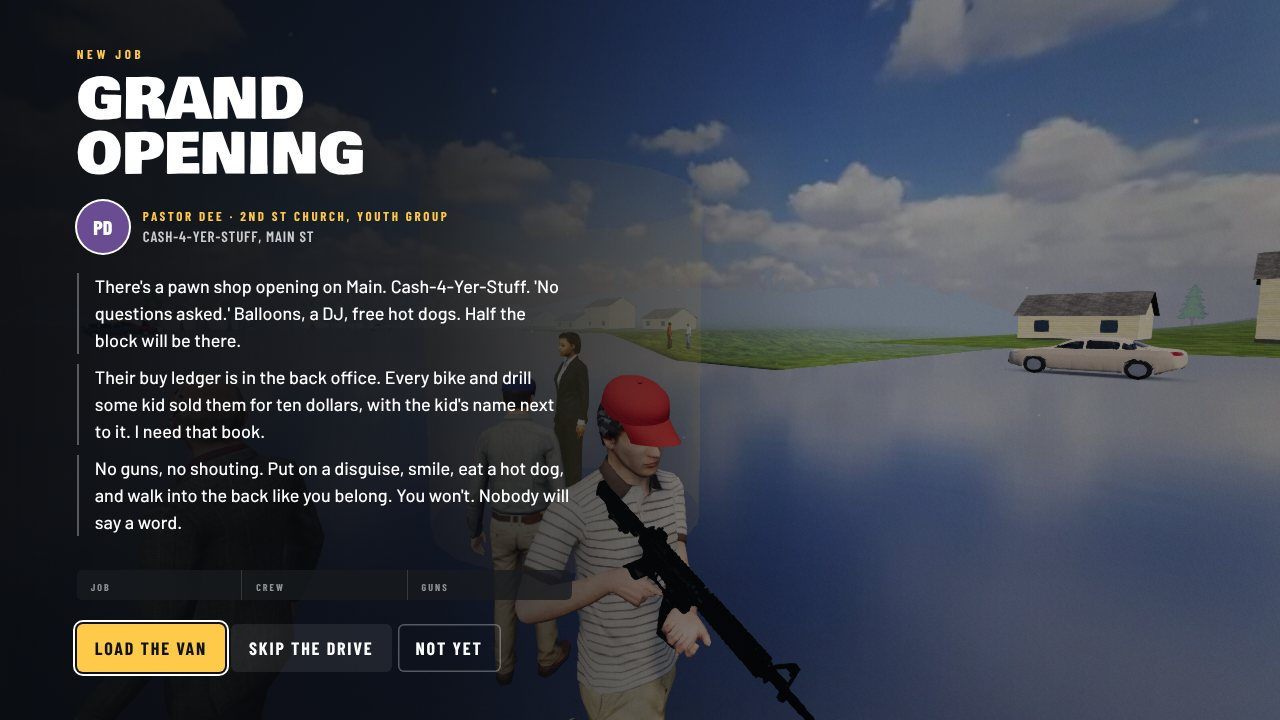
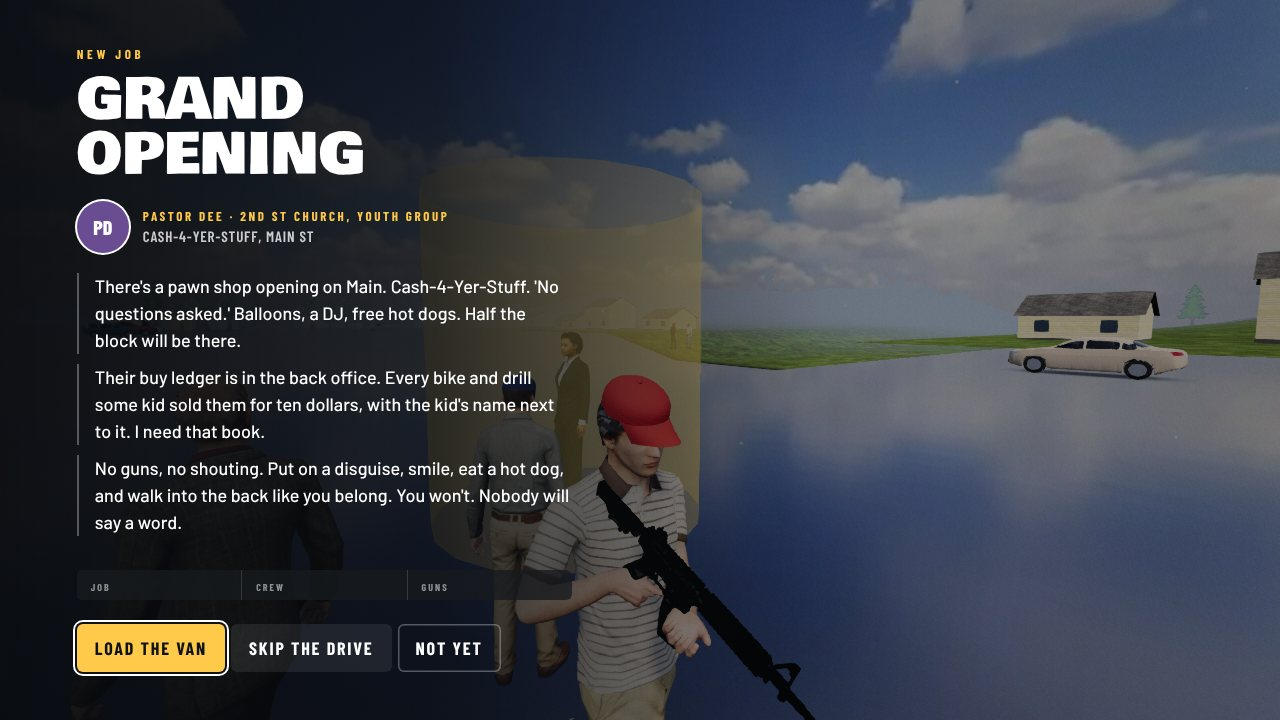
Grand Opening: damped 'excuse me' pile-ups, DJ talk range, human test routes

Changed region(s): [[0.5, 0.55, 0.5625, 0.7333], [0.4375, 0.4583, 0.5625, 0.55], [0.4375, 0.6111, 0.4688, 0.6722]]

diff --git a/dev/jobs/pawn.js b/dev/jobs/pawn.js
@@ -44,8 +44,8 @@ let fails=0;const ok=(c,m)=>{if(!c)fails++;console.log((c?'ok   ':'FAIL ')+m)};
     const k=s.sub;if(k&&log[log.length-1]!==k)log.push(k);return s};
   const face=(x,z)=>ev(([x,z])=>{const P=window.__ht.P;P.yaw=Math.atan2(-(x-P.pos.x),-(z-P.pos.z));P.pitch=-.12},[x,z]);
   const dist=(x,z)=>ev(([x,z])=>{const P=window.__ht.P;return Math.hypot(P.pos.x-x,P.pos.z-z)},[x,z]);
-  async function walk(pts,o){o=o||{};for(const q of pts){let stuck=0,last=1e9;await face(q.x,q.z);await p.keyboard.down('w');if(o.run)await p.keyboard.down('Shift');
-      for(let i=0;i<900;i++){await face(q.x,q.z);await step(2);T+=2;if(i%15===0)await sample();const d=await dist(q.x,q.z);if(d<(q.r||.6))break;if(d>last-.01){if(++stuck>40)break}else stuck=0;last=Math.min(last,d)}
+  async function walk(pts,o){o=o||{};for(const q of pts){if(o.until&&await o.until())break;let stuck=0,last=1e9;await face(q.x,q.z);await p.keyboard.down('w');if(o.run)await p.keyboard.down('Shift');
+      for(let i=0;i<900;i++){await face(q.x,q.z);await step(2);T+=2;if(i%15===0)await sample();if(o.until&&i%5===0&&await o.until())break;const d=await dist(q.x,q.z);if(d<(q.r||.6))break;if(d>last-.01){if(++stuck>40)break}else stuck=0;last=Math.min(last,d)}
       await p.keyboard.up('w');if(o.run)await p.keyboard.up('Shift')}await step(2)}
   const press=async(k,n)=>{await p.keyboard.press(k);await step(n||2)};
   const waitFor=async(fn,arg,max)=>{for(let i=0;i<(max||900);i++){const r=await ev(fn,arg);if(r)return r;await step(2);T+=2;if(i%15===0)await sample()}return null};
@@ -76,7 +76,7 @@ let fails=0;const ok=(c,m)=>{if(!c)fails++;console.log((c?'ok   ':'FAIL ')+m)};
   await press('g',4);const fx=await ev(()=>window.__ht.M.ph);ok(fx==='walk','G straightens the disguise (tutorial waits for it): '+fx);
   await step(20);await shot('03c-disguise-fixed',await faceCam());
   /* ---- 2. small talk with the first guest ---- */
-  await walk([{x:342,z:42.4},{x:346.5,z:42.6}]);const gl=await front('gloria',1.0);await walk([gl]);await face((await at('gloria')).x,(await at('gloria')).z);
+  await walk([{x:rear.x,z:45.6},{x:342,z:45.4},{x:346.5,z:42.6}]);const gl=await front('gloria',1.0);await walk([gl]);await face((await at('gloria')).x,(await at('gloria')).z);
   await shot('04-the-party',[344,2.6,46.5,357,1.2,40]);
   await press('e',6);const c1=await waitFor(()=>{const M=window.__ht.M;return M&&M.chat?M.chat.kind+':'+M.chat.p.id:null},null,60);ok(/small:/.test(c1||''),'E on a guest starts small talk: '+c1);
   await waitFor(()=>{const M=window.__ht.M;return M&&M.V&&M.V.choice},null,400);await shot('05-small-talk');const a1=await answer();console.log('     answered '+JSON.stringify(a1));
@@ -87,11 +87,11 @@ let fails=0;const ok=(c,m)=>{if(!c)fails++;console.log((c?'ok   ':'FAIL ')+m)};
   await walk([{x:361.8,z:39.85,r:.35}]);await face(361.4,38.6);await p.keyboard.down('e');for(let i=0;i<60;i++){await step(2);if(i===40)await shot('06-hold-the-ladder',[364.6,1.9,42.6,360.8,1.9,38.7])}await p.keyboard.up('e');await step(4);
   const af=await waitFor(()=>window.__ht.M.archFixed,null,120);ok(af,'holding E fixes the arch ("balloon emergency" learned)');await step(150);
   /* ---- 4. a song request ---- */
-  await walk([{x:364.5,z:43},{x:367.2,z:42.6}]);await face(369.5,41.3);await press('e',6);await answer(0);await talkDone();const sg=await ev(()=>window.__ht.M.ev&&window.__ht.M.ev.kind);ok(sg==='song','the DJ plays his one song: '+sg);
+  await walk([{x:364.5,z:43},{x:367.6,z:41.9}]);await face(369.5,41.3);await press('e',6);await answer(0);await talkDone();const sg=await ev(()=>window.__ht.M.ev&&window.__ht.M.ev.kind);ok(sg==='song','the DJ plays his one song: '+sg);
   await step(150);await shot('07-the-one-song',[361.2,2.0,44.6,365.5,1.1,41]);
   /* ---- 5. too weird in public: sprint around the dance floor until somebody goes "…", then walk off and make small talk ---- */
   const spr=[{x:362.2,z:42.8},{x:366.5,z:42.9},{x:366.6,z:40.4},{x:362.4,z:40.4}];let dots=null;
-  for(let lap=0;lap<6&&!dots;lap++){await walk(spr,{run:true});dots=await ev(()=>{const M=window.__ht.M;const k=Object.keys(M.D.timers);return k.length?k:null})}
+  const anyDots=()=>ev(()=>{const M=window.__ht.M;const k=Object.keys(M.D.timers);return k.length?k:null});for(let lap=0;lap<6&&!dots;lap++){await walk(spr,{run:true,until:anyDots});dots=await anyDots()}
   ok(!!dots,'sprinting around people drains cover until somebody starts a politeness timer: '+JSON.stringify(dots));
   if(dots){const who=dots[0];const q=await at(who);await face(q.x,q.z);await step(2);await shot('08-politeness',[q.x+Math.sin(q.yaw)*3.2+1.2,2.0,q.z+Math.cos(q.yaw)*3.2+1.4,q.x,1.6,q.z]);
     const fr=await front(who,1.0);await walk([fr]);await face(q.x,q.z);await press('e',6);const ch=await ev(()=>window.__ht.M.chat&&window.__ht.M.chat.p.id);

diff --git a/js/social.js b/js/social.js
@@ -144,13 +144,14 @@ function check(o){o=o||{};const C=convo({mood:o.mood||'bored',rounds:[{options:o
      D.timers {id:{t,T}}  D.watch {id:secs}  D.cover D.max D.min D.started (timers ever started) D.excused D.save() D.load(s)
    Cover drains only while somebody sees you; nobody watching, nothing changes. A crowd is camouflage: with 2+ guests within 2.5 m
    drains are halved and the public gain doubled. Loitering by a staff door (st.loiter) costs -0.05/s. A slipped tell (the mustache
-   on its way off) costs -0.06/s. Someone who said "Excuse me" watches you for 20 s: everything he sees drains x1.5.
+   on its way off) costs -0.06/s. Someone who said "Excuse me" watches you for 20 s: everything they see drains x1.5. A second
+   "Excuse me" while someone is already watching costs -0.12 instead of -0.3 (the room was already looking).
    ===================================================================== */
 const DISGUISES={
   press:   {id:'press',   name:'Local Press',  short:'Press',   max:.9, staff:-.18,polite:1,  slip:[95,140], tell:'lanyard'},
   cousin:  {id:'cousin',  name:"DJ's Cousin",  short:'Cousin',  max:.85,staff:-.06,polite:1,  slip:[80,120], tell:'cap'},
   mustache:{id:'mustache',name:'Mustache',     short:'Mustache',max:.7, staff:-.12,polite:1.5,slip:[26,44],  tell:'mustache'}};
-const COVER={range:10,run:-.08,crouch:-.05,staff:-.12,carry:-.04,public:.02,win:.15,lose:-.10,recog:-.2,excuse:-.3,slip:-.06,loiter:-.05,
+const COVER={range:10,run:-.08,crouch:-.05,staff:-.12,carry:-.04,public:.02,win:.15,lose:-.10,recog:-.2,excuse:-.3,excuse2:-.12,slip:-.06,loiter:-.05,
   low:.35,cancel:.45,polite:[4,8],watchT:20,watchMul:1.5,crowd:2};
 function hashId(s){let h=2166136261;s=String(s);for(let i=0;i<s.length;i++){h^=s.charCodeAt(i);h=Math.imul(h,16777619)}return h>>>0}
 function cover(o){o=o||{};const R0=rng(o.seed||7);let draws=0;const rnd=()=>{draws++;return R0()};
@@ -181,7 +182,8 @@ function cover(o){o=o||{};const R0=rng(o.seed||7);let draws=0;const rnd=()=>{dra
     if(D.cover<COVER.low)for(const s of seen){if(D.timers[s.id]||D.watch[s.id]>0||s.noPolite)continue;startTimer(s.id);ev.push({kind:'polite',id:s.id})}
     for(const id in D.timers){const tm=D.timers[id];
       if(!ids[id]||D.cover>COVER.cancel){delete D.timers[id];ev.push({kind:'cancel',id,why:!ids[id]?'gone':'fixed'});continue}
-      tm.t-=dt;if(tm.t<=0){delete D.timers[id];D.excused++;D.watch[id]=COVER.watchT;set(D.cover+COVER.excuse);ev.push({kind:'excuse',id})}}
+      tm.t-=dt;if(tm.t<=0){/* a second 'excuse me' while somebody else is already watching you costs less: the room was already looking */const pile=Object.keys(D.watch).some(k=>k!==id&&D.watch[k]>0);
+        delete D.timers[id];D.excused++;D.watch[id]=COVER.watchT;set(D.cover+(pile?COVER.excuse2:COVER.excuse));ev.push({kind:'excuse',id,pile})}}
     if(D.cover<=0&&c0>0)ev.push({kind:'blown'});
     return{dc:D.cover-c0,events:ev,cover:D.cover}};
   /* the next slip of the tell (seconds); running and eating make a mustache slip sooner */

diff --git a/js/jobs/pawn.js b/js/jobs/pawn.js
@@ -868,9 +868,9 @@ function objectives(M,F,dt){const a=A(),P=a.P,D=M.D,car=M.car;
   /* the van: change disguise (party stage only) */
   if(M.stage==='party'&&!M.got){const r=vanRear(M);if(r&&!a.CV)F.taps.push({x:r.x,z:r.z,r:2,txt:'Change disguise ('+LOOK[D.id].label+' now)',fn:()=>pickOpen(M)})}
   /* talk to anybody close */
-  if(M.pp&&!M.chat&&!(M.photo&&M.photo.st==='aim'))for(const id in M.pp){const p=M.pp[id];const d=hyp(p.pos.x-P.pos.x,p.pos.z-P.pos.z);if(d>K.talkR)continue;
+  if(M.pp&&!M.chat&&!(M.photo&&M.photo.st==='aim'))for(const id in M.pp){const p=M.pp[id];const d=hyp(p.pos.x-P.pos.x,p.pos.z-P.pos.z),tr=id==='dj'?3.2:K.talkR;if(d>tr)continue;
     const kind=p.mode==='visit'?'visit':CHAT[id]?id:'small';if(p.mode==='event'&&!['dj','kev'].includes(id)&&M.ev&&M.ev.kind==='raffle')continue;
-    F.taps.push({d,r:K.talkR,txt:'Talk to '+(ROLE_NAME[id]||p.c.name)+(p.talked&&kind==='small'?' (again)':''),fn:()=>{const pl=a.P;pl.yaw=Math.atan2(-(p.pos.x-pl.pos.x),-(p.pos.z-pl.pos.z));chatOpen(M,p,kind)}})}
+    F.taps.push({d:id==='dj'?d-.8:d,r:tr,txt:'Talk to '+(ROLE_NAME[id]||p.c.name)+(p.talked&&kind==='small'?' (again)':''),fn:()=>{const pl=a.P;pl.yaw=Math.atan2(-(p.pos.x-pl.pos.x),-(p.pos.z-pl.pos.z));chatOpen(M,p,kind)}})}
   /* the ladder */
   if(M.ladderOn&&!M.archFixed){F.objs.push(["Hold Marco's ladder (hold E)",false]);F.target={x:S.ladder.x+.25,z:S.ladder.z+.85,label:'Ladder'};
     F.holds.push({x:S.ladder.x+.25,z:S.ladder.z+.85,r:1.5,o:M.ladderO,txt:'Hold the ladder',time:K.ladder,fn:()=>ladderDone(M)});
